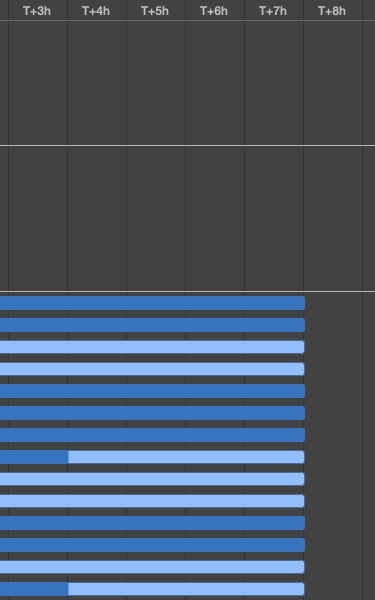
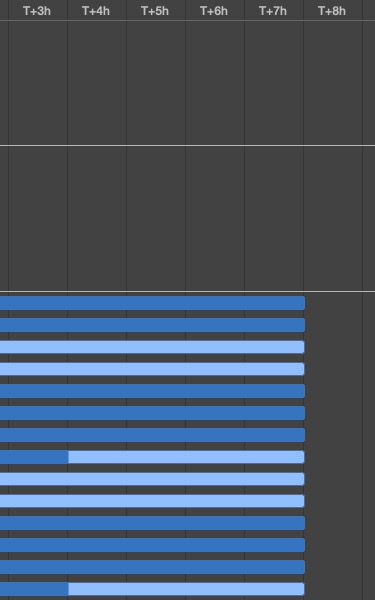
Update Timeline - 13 May 2019 0816
Anggaran (Budget) UI and Backend Progress YPL edition

Changed region(s): [[0.0, 0.93, 0.8213, 0.96]]

diff --git a/TIMELINE.YPL/task.html b/TIMELINE.YPL/task.html
@@ -98,7 +98,7 @@
                 <td>T day 08.00</td>
                 <td>T day 17.00</td>
                 <td>1d</td>
-                <td>40%</td>
+                <td>46%</td>
                 <td></td>
                 <td align="right"></td>
                 <td></td>
@@ -114,7 +114,7 @@
                 <td>T day 08.00</td>
                 <td>T day 17.00</td>
                 <td>1d</td>
-                <td>60%</td>
+                <td>65%</td>
                 <td></td>
                 <td align="right"></td>
                 <td></td>
@@ -290,7 +290,7 @@
                 <td>T day 08.00</td>
                 <td>T day 17.00</td>
                 <td>1d</td>
-                <td>67%</td>
+                <td>100%</td>
                 <td></td>
                 <td align="right"></td>
                 <td></td>
@@ -338,7 +338,7 @@
                 <td>T day 08.00</td>
                 <td>T day 17.00</td>
                 <td>1d</td>
-                <td>0%</td>
+                <td>100%</td>
                 <td></td>
                 <td align="right"></td>
                 <td></td>
@@ -546,7 +546,7 @@
                 <td>T day 08.00</td>
                 <td>T day 17.00</td>
                 <td>1d</td>
-                <td>30%</td>
+                <td>33%</td>
                 <td></td>
                 <td align="right"></td>
                 <td></td>
@@ -1106,7 +1106,7 @@
                 <td>T day 08.00</td>
                 <td>T day 17.00</td>
                 <td>1d</td>
-                <td>0%</td>
+                <td>33%</td>
                 <td></td>
                 <td align="right"></td>
                 <td></td>
@@ -1122,7 +1122,7 @@
                 <td>T day 08.00</td>
                 <td>T day 17.00</td>
                 <td>1d</td>
-                <td>0%</td>
+                <td>50%</td>
                 <td></td>
                 <td align="right"></td>
                 <td></td>
@@ -1138,7 +1138,7 @@
                 <td>T day 08.00</td>
                 <td>T day 17.00</td>
                 <td>1d</td>
-                <td>0%</td>
+                <td>50%</td>
                 <td></td>
                 <td align="right"></td>
                 <td></td>
@@ -1170,7 +1170,7 @@
                 <td>T day 08.00</td>
                 <td>T day 17.00</td>
                 <td>1d</td>
-                <td>25%</td>
+                <td>50%</td>
                 <td></td>
                 <td align="right"></td>
                 <td></td>
@@ -1234,7 +1234,7 @@
                 <td>T day 08.00</td>
                 <td>T day 17.00</td>
                 <td>1d</td>
-                <td>0%</td>
+                <td>50%</td>
                 <td></td>
                 <td align="right"></td>
                 <td></td>
@@ -1250,7 +1250,7 @@
                 <td>T day 08.00</td>
                 <td>T day 17.00</td>
                 <td>1d</td>
-                <td>0%</td>
+                <td>50%</td>
                 <td></td>
                 <td align="right"></td>
                 <td></td>
@@ -1266,7 +1266,7 @@
                 <td>T day 08.00</td>
                 <td>T day 17.00</td>
                 <td>1d</td>
-                <td>0%</td>
+                <td>50%</td>
                 <td></td>
                 <td align="right"></td>
                 <td></td>

diff --git a/TIMELINE.YPL/gantt.html b/TIMELINE.YPL/gantt.html
@@ -32,20 +32,20 @@
             <h1>TIMELINE-KEUANGAN: <span class="subtitle">Gantt Chart</span></h1>
           <div class="tablewrap">  <table border="0" cellspacing="0" cellpadding="0">
 <tr>
-	<td><img src="include/gantt0,0.jpg?nocacheTag=-493986790" border=0/></td>
-	<td><img src="include/gantt1,0.jpg?nocacheTag=1371827863" border=0/></td>
+	<td><img src="include/gantt0,0.jpg?nocacheTag=317994477" border=0/></td>
+	<td><img src="include/gantt1,0.jpg?nocacheTag=-1460922168" border=0/></td>
 </tr>
 <tr>
-	<td><img src="include/gantt0,1.jpg?nocacheTag=-1753538789" border=0/></td>
-	<td><img src="include/gantt1,1.jpg?nocacheTag=-1558150010" border=0/></td>
+	<td><img src="include/gantt0,1.jpg?nocacheTag=884234162" border=0/></td>
+	<td><img src="include/gantt1,1.jpg?nocacheTag=1319918772" border=0/></td>
 </tr>
 <tr>
-	<td><img src="include/gantt0,2.jpg?nocacheTag=261902262" border=0/></td>
-	<td><img src="include/gantt1,2.jpg?nocacheTag=-1332290466" border=0/></td>
+	<td><img src="include/gantt0,2.jpg?nocacheTag=-572413109" border=0/></td>
+	<td><img src="include/gantt1,2.jpg?nocacheTag=472796443" border=0/></td>
 </tr>
 <tr>
-	<td><img src="include/gantt0,3.jpg?nocacheTag=-765547764" border=0/></td>
-	<td><img src="include/gantt1,3.jpg?nocacheTag=573167860" border=0/></td>
+	<td><img src="include/gantt0,3.jpg?nocacheTag=-560787447" border=0/></td>
+	<td><img src="include/gantt1,3.jpg?nocacheTag=-581283463" border=0/></td>
 </tr>
 </table>
 </div>

diff --git a/TIMELINE.YPL/index.html b/TIMELINE.YPL/index.html
@@ -47,8 +47,8 @@
   <li id="first" class="column">
     <h3>Variance:</h3><p><span class="data-missing">None</span></p></li>
   <li id="middle" class="column">
-    <h3>Completion:</h3><p>42%</p>
-    <div id="bar"><div id="fill" style="width:42%;"></div></div></li>
+    <h3>Completion:</h3><p>48%</p>
+    <div id="bar"><div id="fill" style="width:48%;"></div></div></li>
   <li id="third" class="column">
     <h3>Cost:</h3><span class="data-missing">None</span></li>
 </ul>
